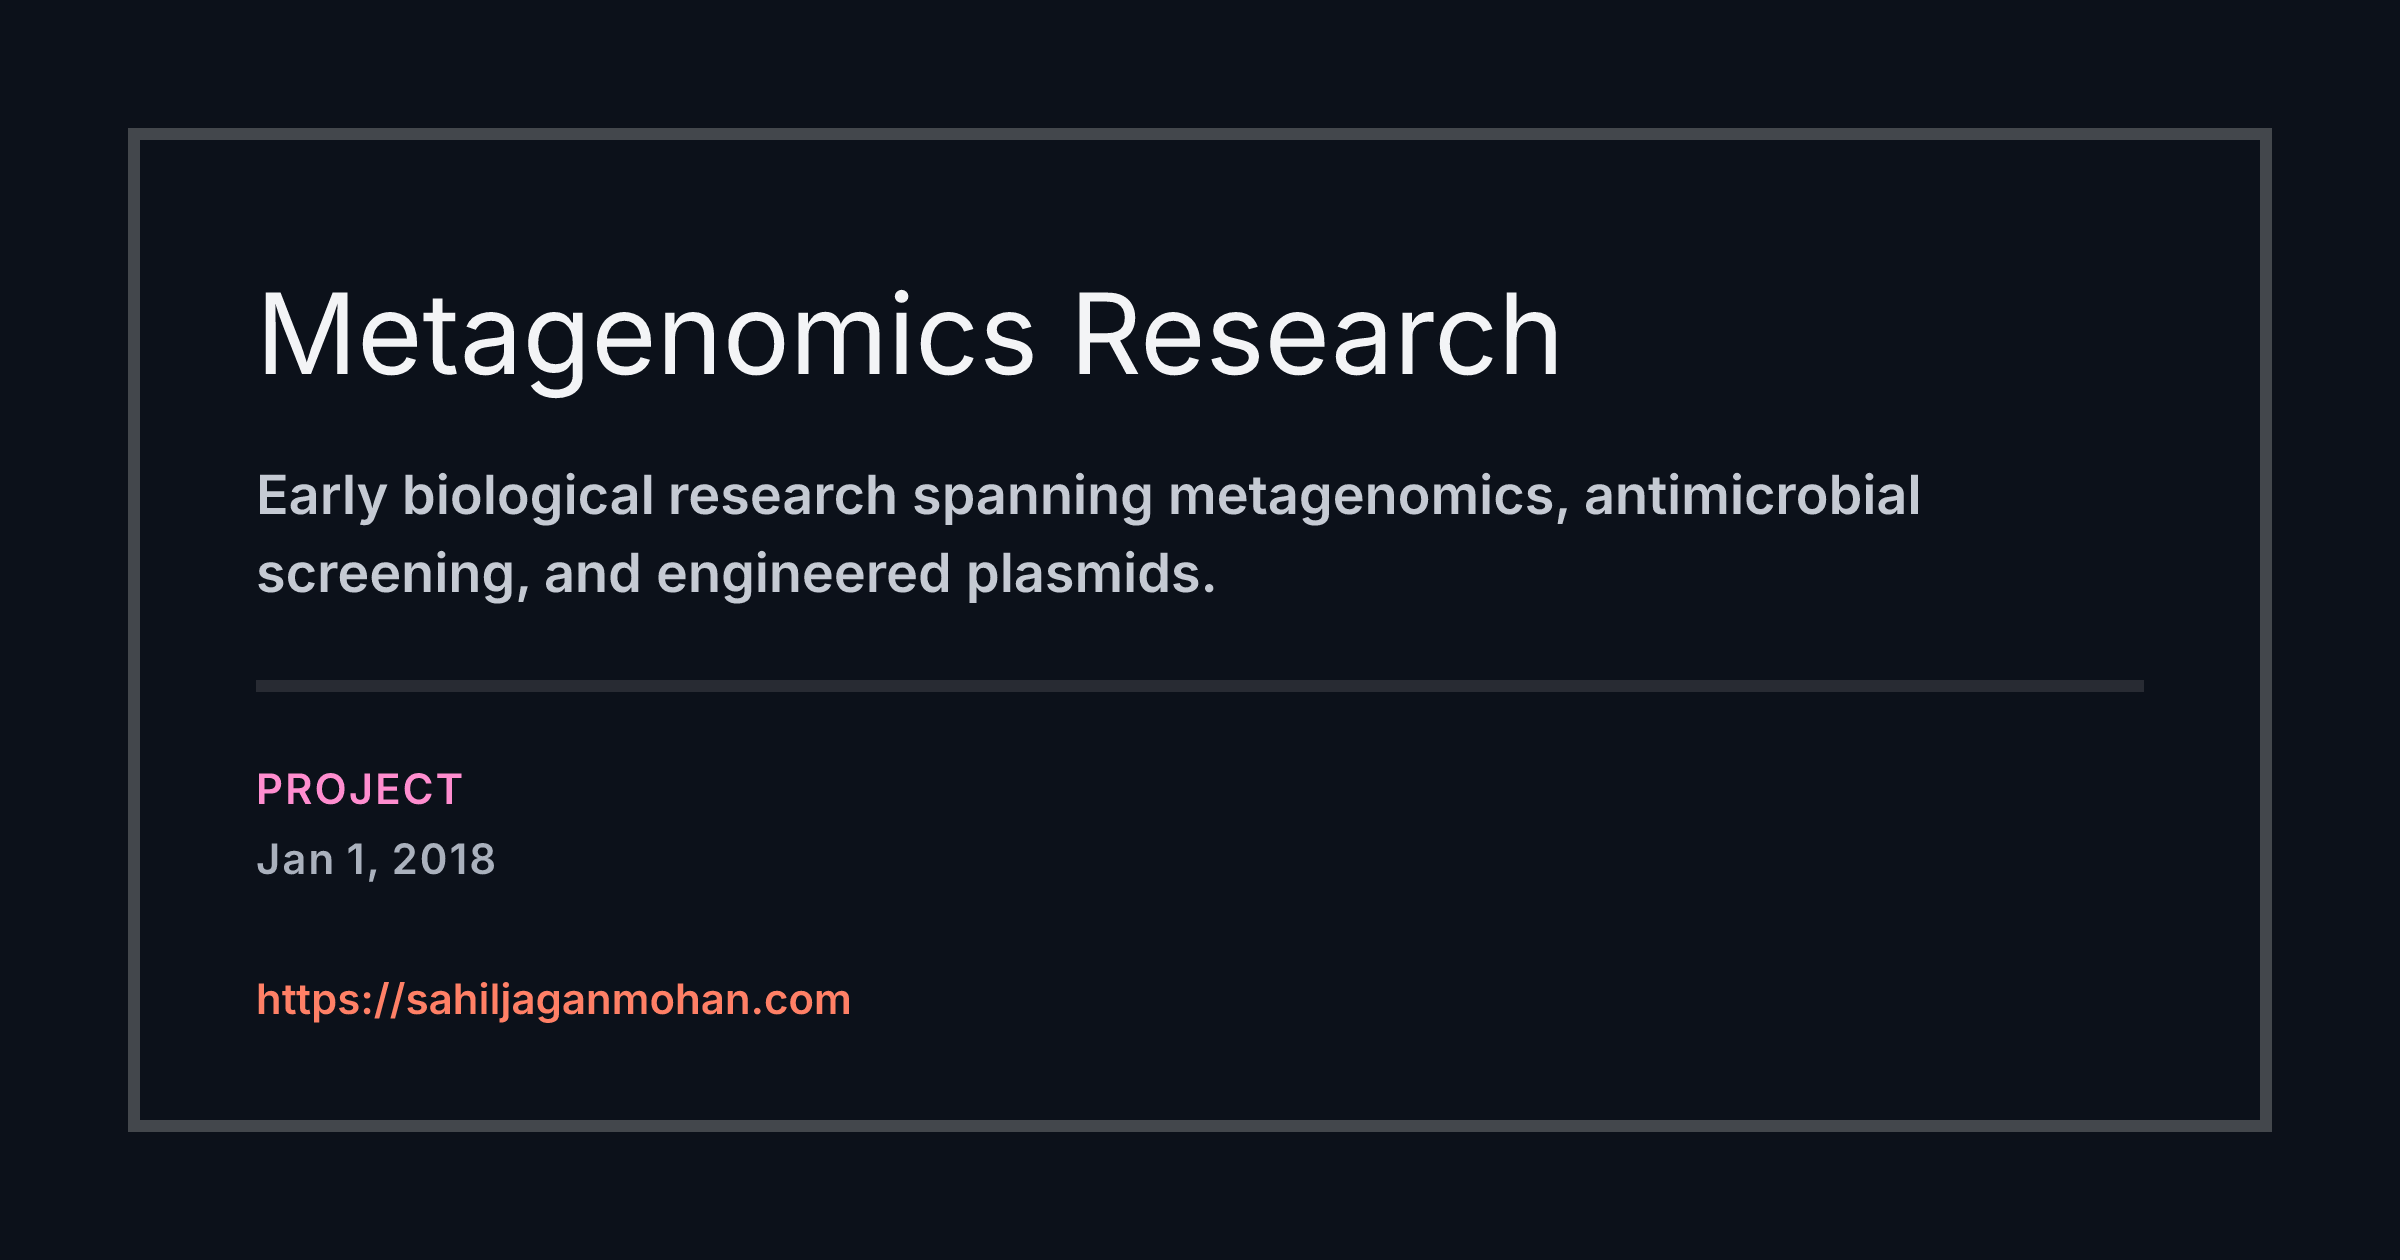
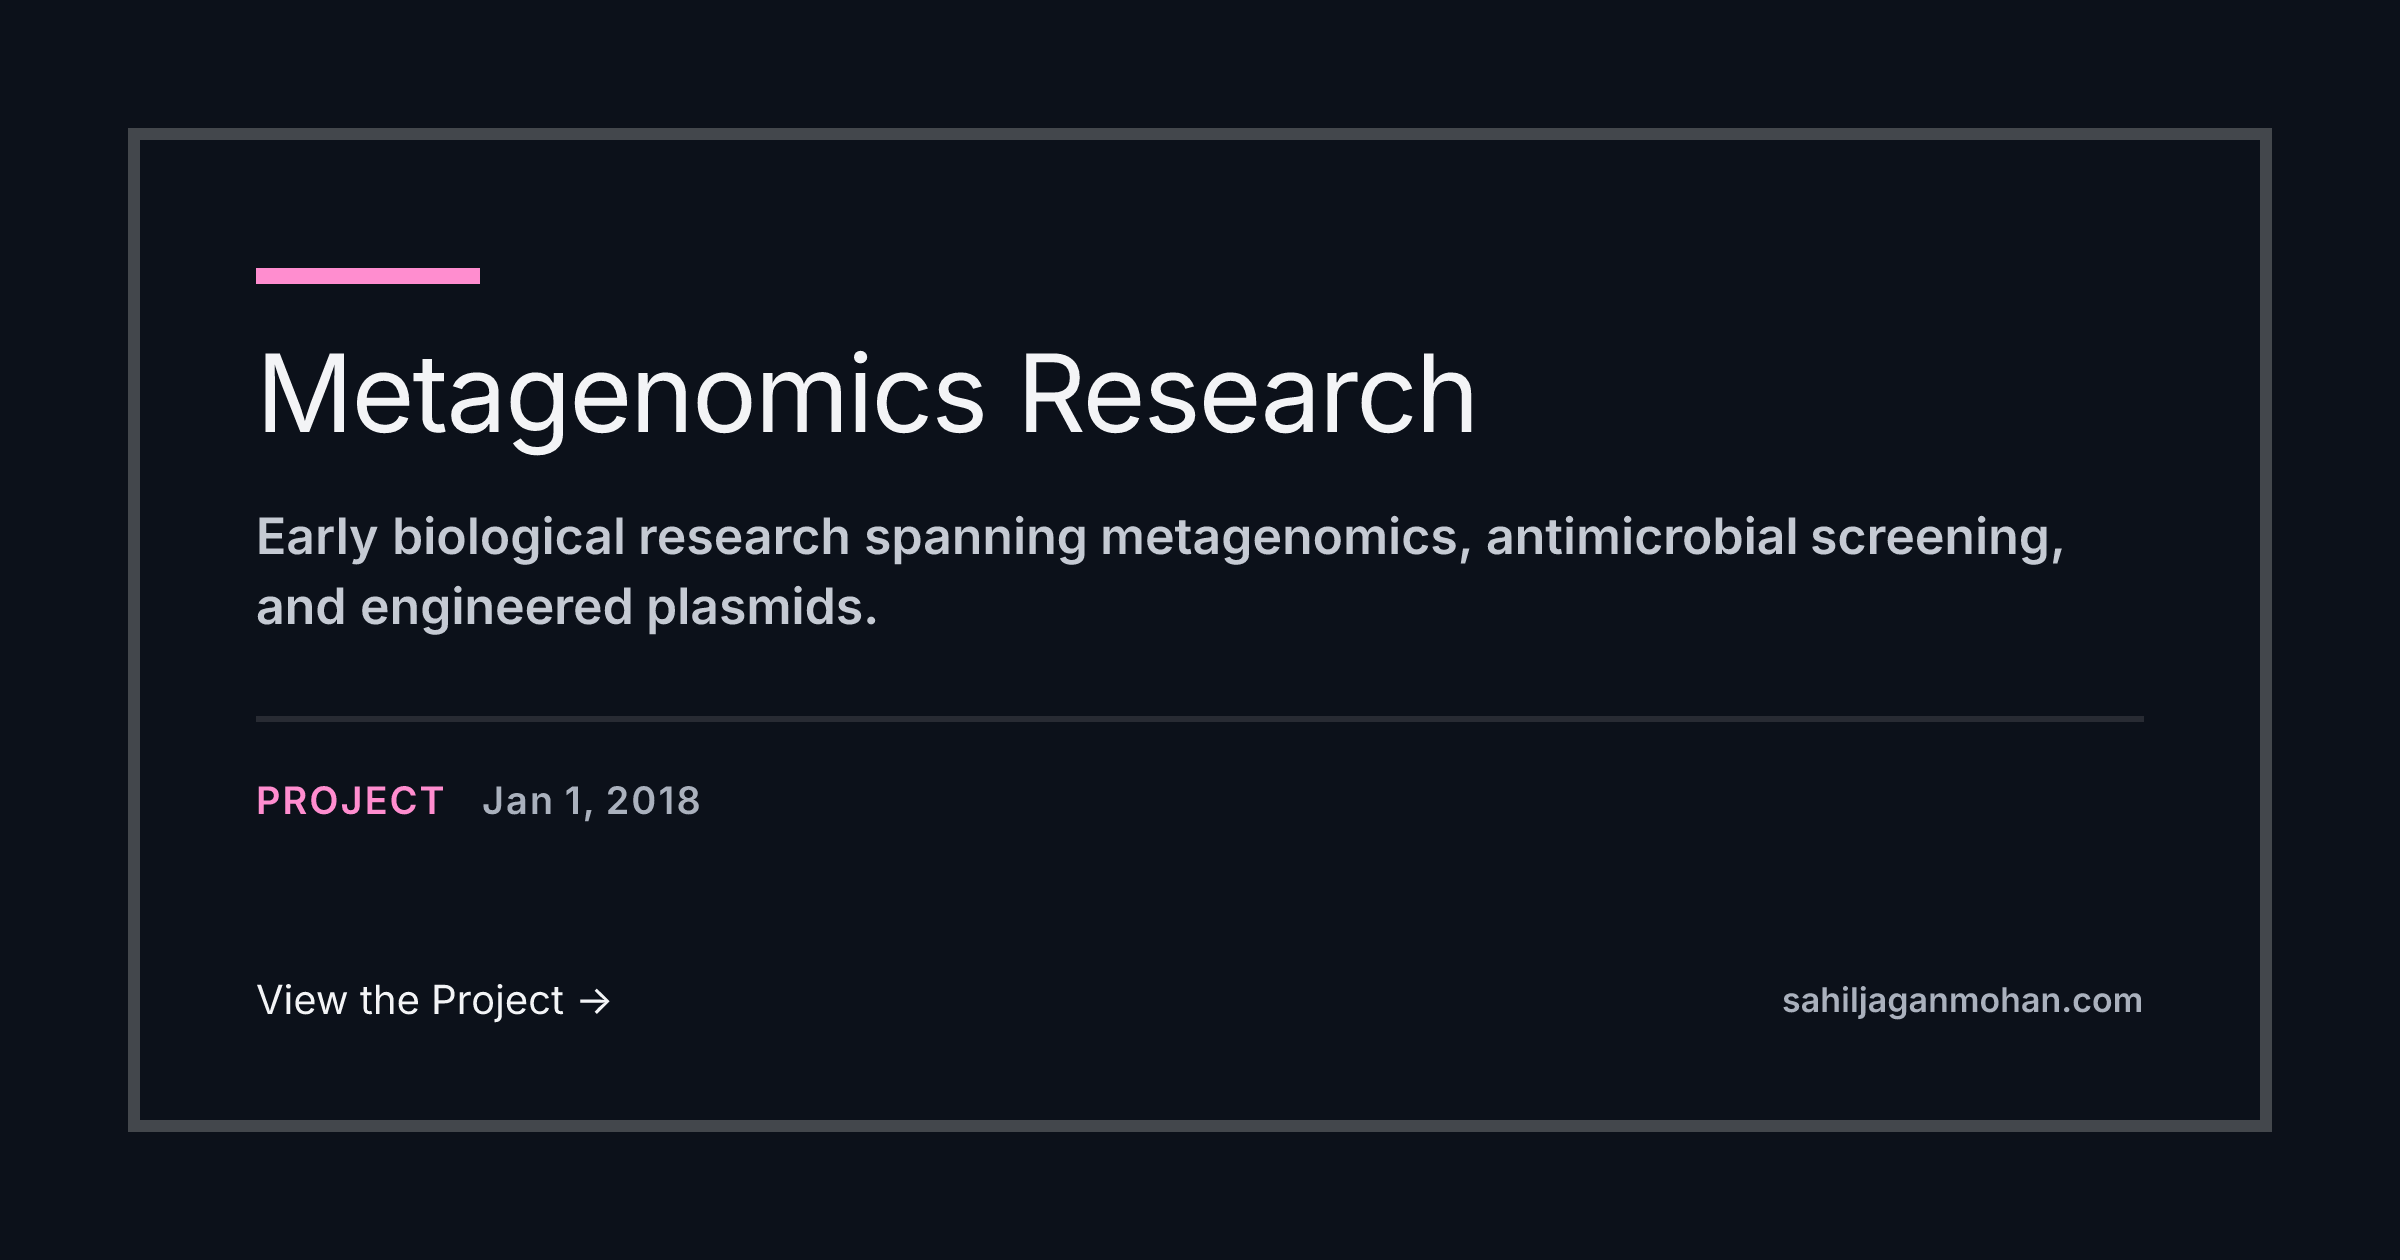
feat: improve social sharing previews
Generate refined Things cards and provide page-specific social metadata.

ref: ME-32

diff --git a/portfolio/lib/content/generateOgImages.tsx b/portfolio/lib/content/generateOgImages.tsx
@@ -85,7 +85,13 @@ interface CardData {
   type: string;
   accent: string;
   date: string;
+  cta: string;
   siteUrl: string;
+}
+
+function ctaForType(type: ThingsEntryType) {
+  if (type === "photography") return "View the Photograph →";
+  return `View the ${thingsTypeLabels[type]} →`;
 }
 
 function cardData(post: ThingsEntry, siteUrl: string): CardData {
@@ -95,15 +101,15 @@ function cardData(post: ThingsEntry, siteUrl: string): CardData {
     type: thingsTypeLabels[post.type],
     accent: accentColors[thingsAccentByType[post.type as ThingsEntryType]],
     date: formatThingsDate(post.date),
+    cta: ctaForType(post.type),
     siteUrl,
   };
 }
 
 async function createPng(
-  { title, blurb, type, accent, date, siteUrl }: CardData,
+  { title, blurb, type, accent, date, cta, siteUrl }: CardData,
   fonts: Awaited<ReturnType<typeof loadFonts>>,
 ) {
-  const compact = title.length > 42 || blurb.length > 100;
   const svg = await satori(
     el(
       "div",
@@ -126,7 +132,7 @@ async function createPng(
             display: "flex",
             flexDirection: "column",
             height: "100%",
-            padding: compact ? "50px 58px 42px" : "64px 58px 48px",
+            padding: "64px 58px 48px",
             width: "100%",
           },
         },
@@ -134,21 +140,28 @@ async function createPng(
           "div",
           {
             style: {
-              borderBottom: `6px solid ${colors.divider}`,
               display: "flex",
               flexDirection: "column",
-              gap: compact ? 20 : 28,
-              paddingBottom: compact ? 26 : 34,
+              gap: 24,
             },
           },
+          el("div", {
+            style: {
+              background: accent,
+              display: "flex",
+              height: 8,
+              width: 112,
+            },
+          }),
           el(
             "div",
             {
               style: {
                 display: "flex",
-                fontSize: compact ? 46 : 56,
+                fontSize: 54,
                 fontWeight: 600,
-                lineHeight: 1.18,
+                letterSpacing: -1,
+                lineHeight: 1.12,
               },
             },
             title,
@@ -159,9 +172,9 @@ async function createPng(
               style: {
                 color: colors.subtle,
                 display: "flex",
-                fontSize: compact ? 23 : 27,
+                fontSize: 25,
                 fontWeight: 500,
-                lineHeight: 1.45,
+                lineHeight: 1.4,
               },
             },
             blurb,
@@ -171,12 +184,14 @@ async function createPng(
           "div",
           {
             style: {
+              borderTop: `3px solid ${colors.divider}`,
               display: "flex",
-              flexDirection: "column",
-              fontSize: 21,
+              gap: 18,
+              fontSize: 19,
               fontWeight: 500,
               letterSpacing: 1,
-              marginTop: compact ? 26 : 36,
+              marginTop: 38,
+              paddingTop: 28,
             },
           },
           el(
@@ -190,7 +205,6 @@ async function createPng(
               style: {
                 color: colors.muted,
                 display: "flex",
-                marginTop: 10,
               },
             },
             date,
@@ -200,14 +214,37 @@ async function createPng(
           "div",
           {
             style: {
-              color: colors.url,
+              alignItems: "center",
               display: "flex",
-              fontSize: 21,
-              fontWeight: 500,
+              justifyContent: "space-between",
               marginTop: "auto",
+              paddingTop: 28,
             },
           },
-          siteUrl,
+          el(
+            "div",
+            {
+              style: {
+                color: colors.text,
+                display: "flex",
+                fontSize: 20,
+                fontWeight: 600,
+              },
+            },
+            cta,
+          ),
+          el(
+            "div",
+            {
+              style: {
+                color: colors.muted,
+                display: "flex",
+                fontSize: 17,
+                fontWeight: 500,
+              },
+            },
+            siteUrl.replace(/^https:\/\//, ""),
+          ),
         ),
       ),
     ),

diff --git a/portfolio/components/Seo.tsx b/portfolio/components/Seo.tsx
@@ -1,16 +1,29 @@
+import { loadThingsPost } from "@/lib/content/loadContent.ts";
 import type { Site } from "@/lib/shared/types.ts";
 import { themeColors, themeInitScript } from "@/lib/shared/theme.ts";
 
-export default function Seo(
+const pageTitles = {
+  "/": "Home | Sahil Jaganmohan",
+  "/about": "About | Sahil Jaganmohan",
+  "/experience": "Experience | Sahil Jaganmohan",
+  "/things": "Things | Sahil Jaganmohan",
+} as const;
+
+export default async function Seo(
   { site, pathname, hostname }: {
     site: Site;
     pathname: string;
     hostname: string;
   },
 ) {
-  const title = pathname === "/" ? site.title : `${site.title} | Portfolio`;
-  const url = `${site.url}${pathname}`;
   const slug = pathname.match(/^\/things\/([^/]+)$/)?.[1];
+  const post = slug ? await loadThingsPost(slug) : null;
+  const title = post
+    ? post.title
+    : pageTitles[pathname as keyof typeof pageTitles] ??
+      `${site.title} | Portfolio`;
+  const description = post?.excerpt ?? site.description;
+  const url = `${site.url}${pathname}`;
   const image = slug
     ? `${site.url}/og/things/${slug}.png`
     : `${site.url}/og/default.png`;
@@ -19,14 +32,28 @@ export default function Seo(
   return (
     <>
       <title>{title}</title>
-      <meta name="description" content={site.description} />
+      <meta name="description" content={description} />
       <link rel="canonical" href={url} />
       <meta property="og:title" content={title} />
-      <meta property="og:description" content={site.description} />
+      <meta property="og:description" content={description} />
       <meta property="og:url" content={url} />
       <meta property="og:type" content="website" />
       <meta property="og:site_name" content={site.title} />
       <meta property="og:image" content={image} />
+      <meta
+        property="og:image:alt"
+        content={post ? `${post.title} preview` : `${site.title} preview`}
+      />
+      <meta property="og:image:width" content="2400" />
+      <meta property="og:image:height" content="1260" />
+      <meta name="twitter:card" content="summary_large_image" />
+      <meta name="twitter:title" content={title} />
+      <meta name="twitter:description" content={description} />
+      <meta name="twitter:image" content={image} />
+      <meta
+        name="twitter:image:alt"
+        content={post ? `${post.title} preview` : `${site.title} preview`}
+      />
       {analyticsEnabled && (
         <>
           <script
